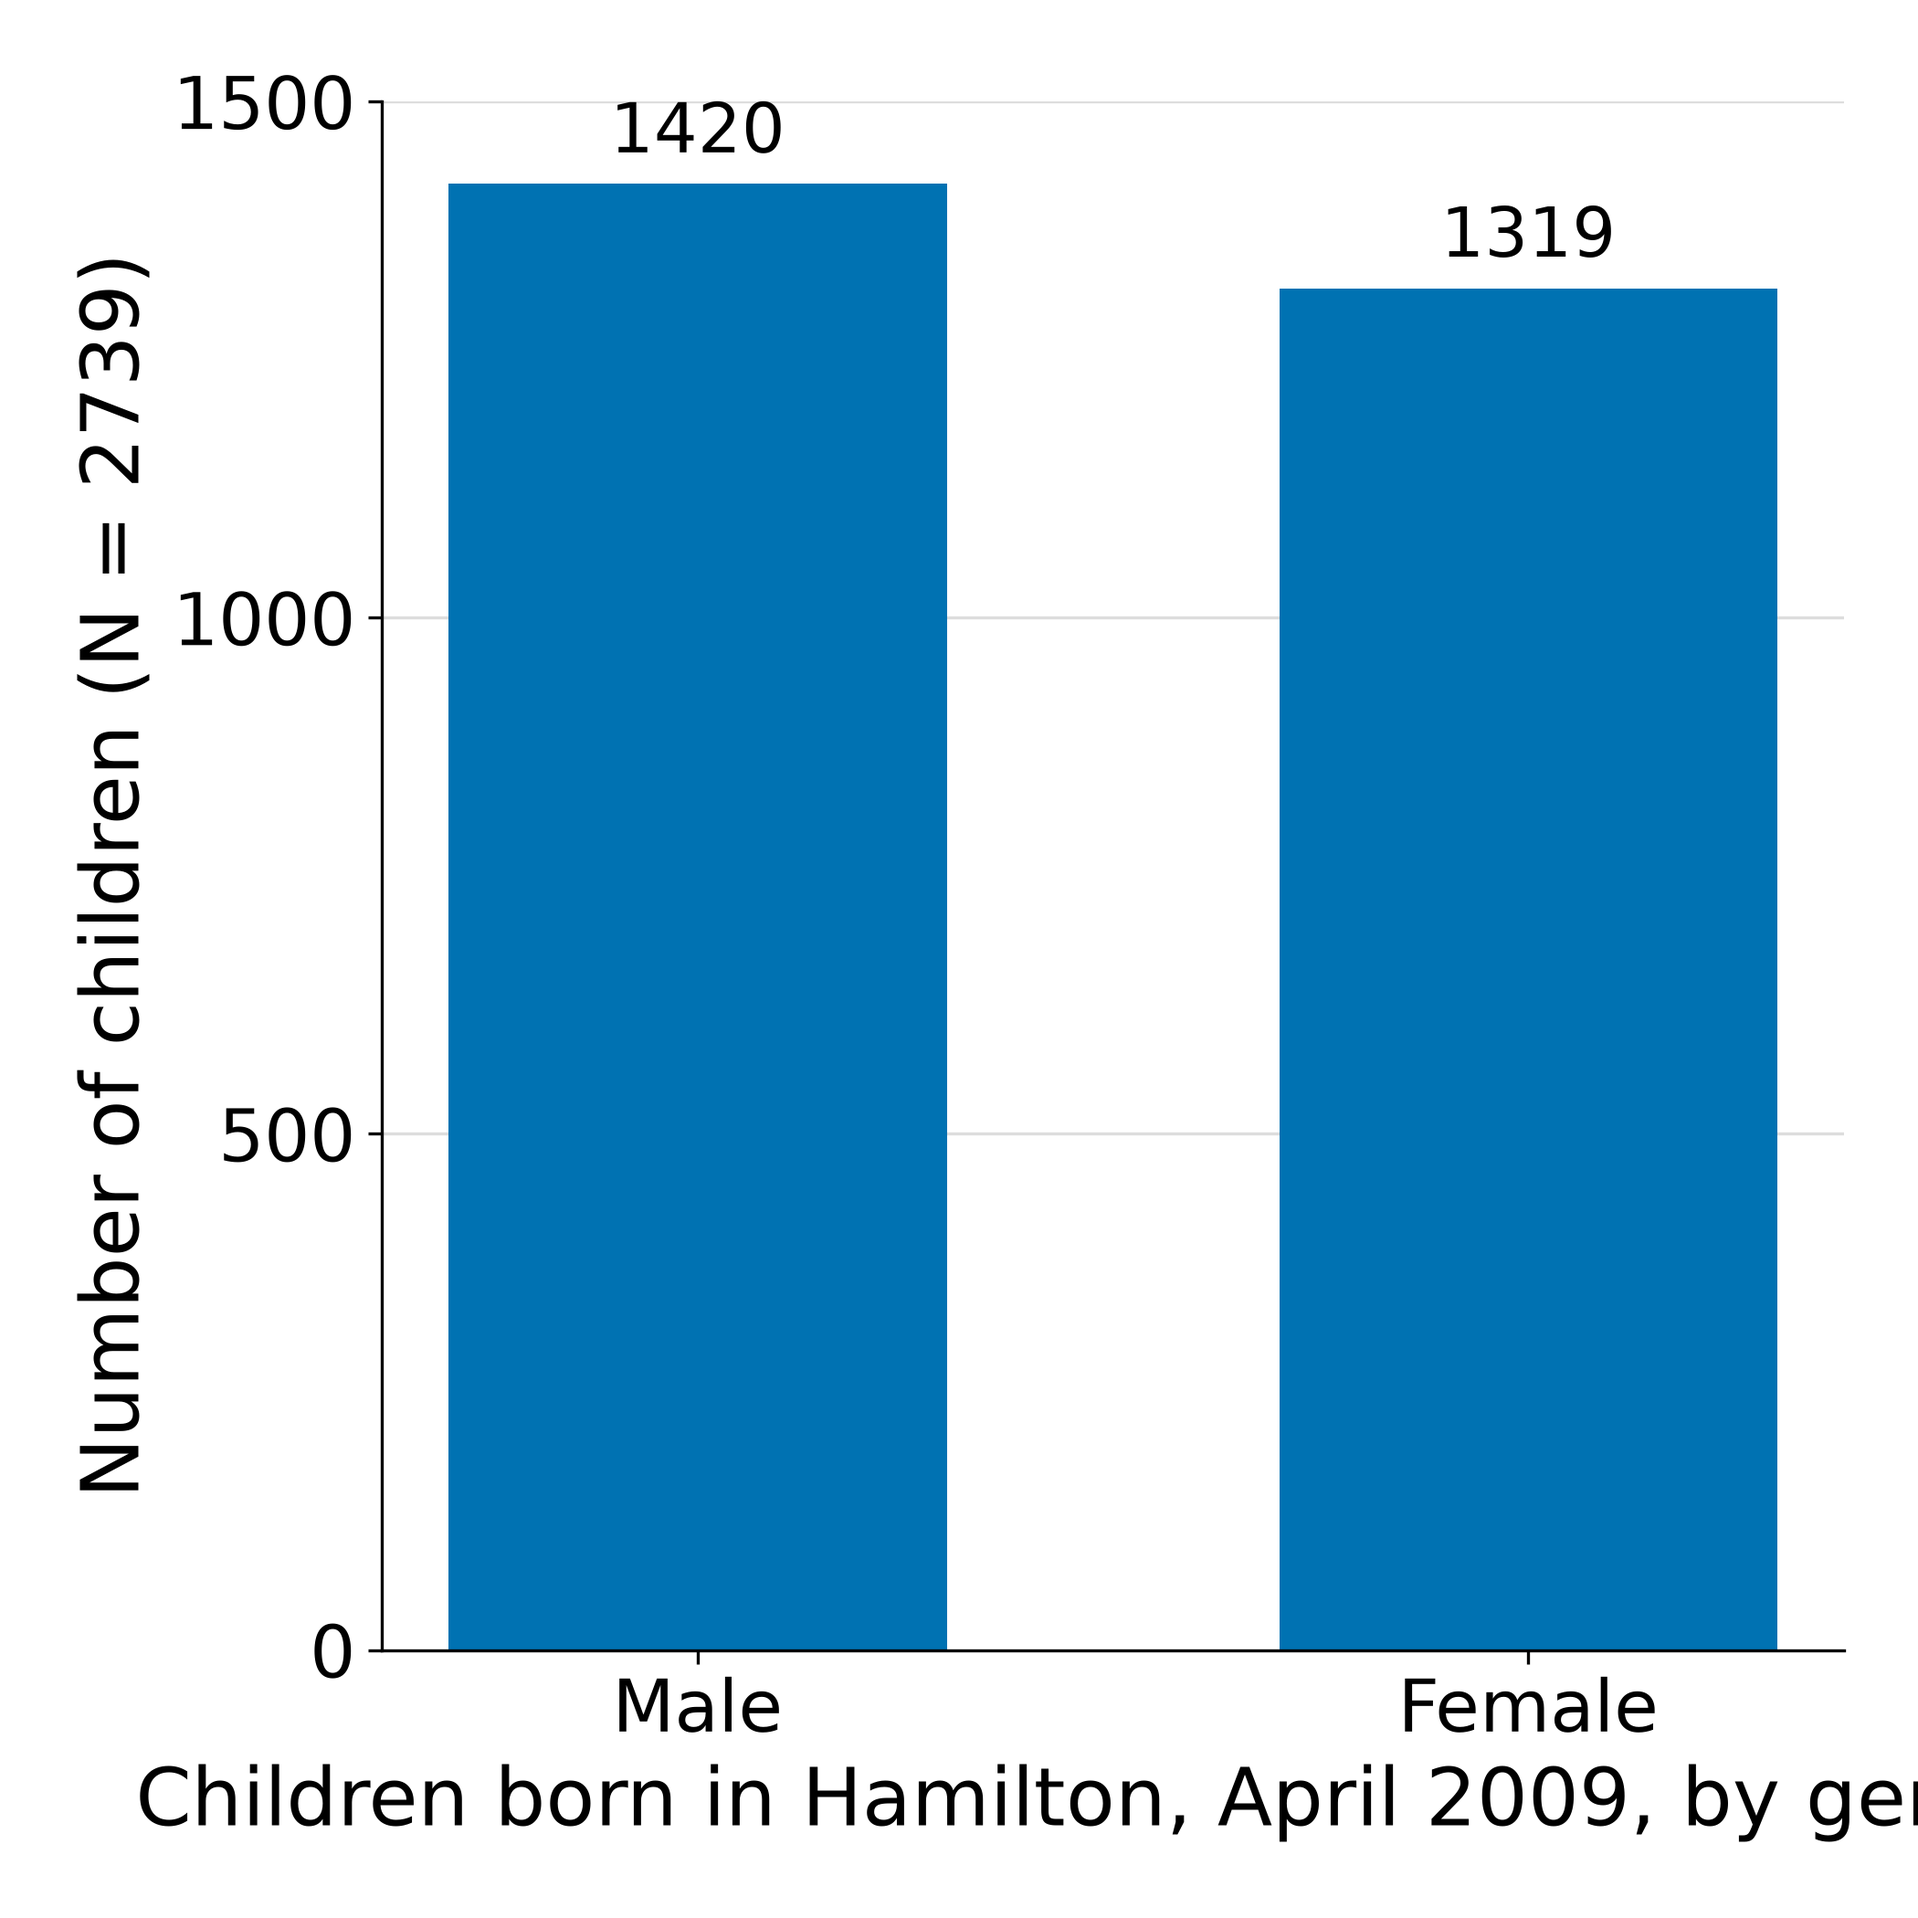
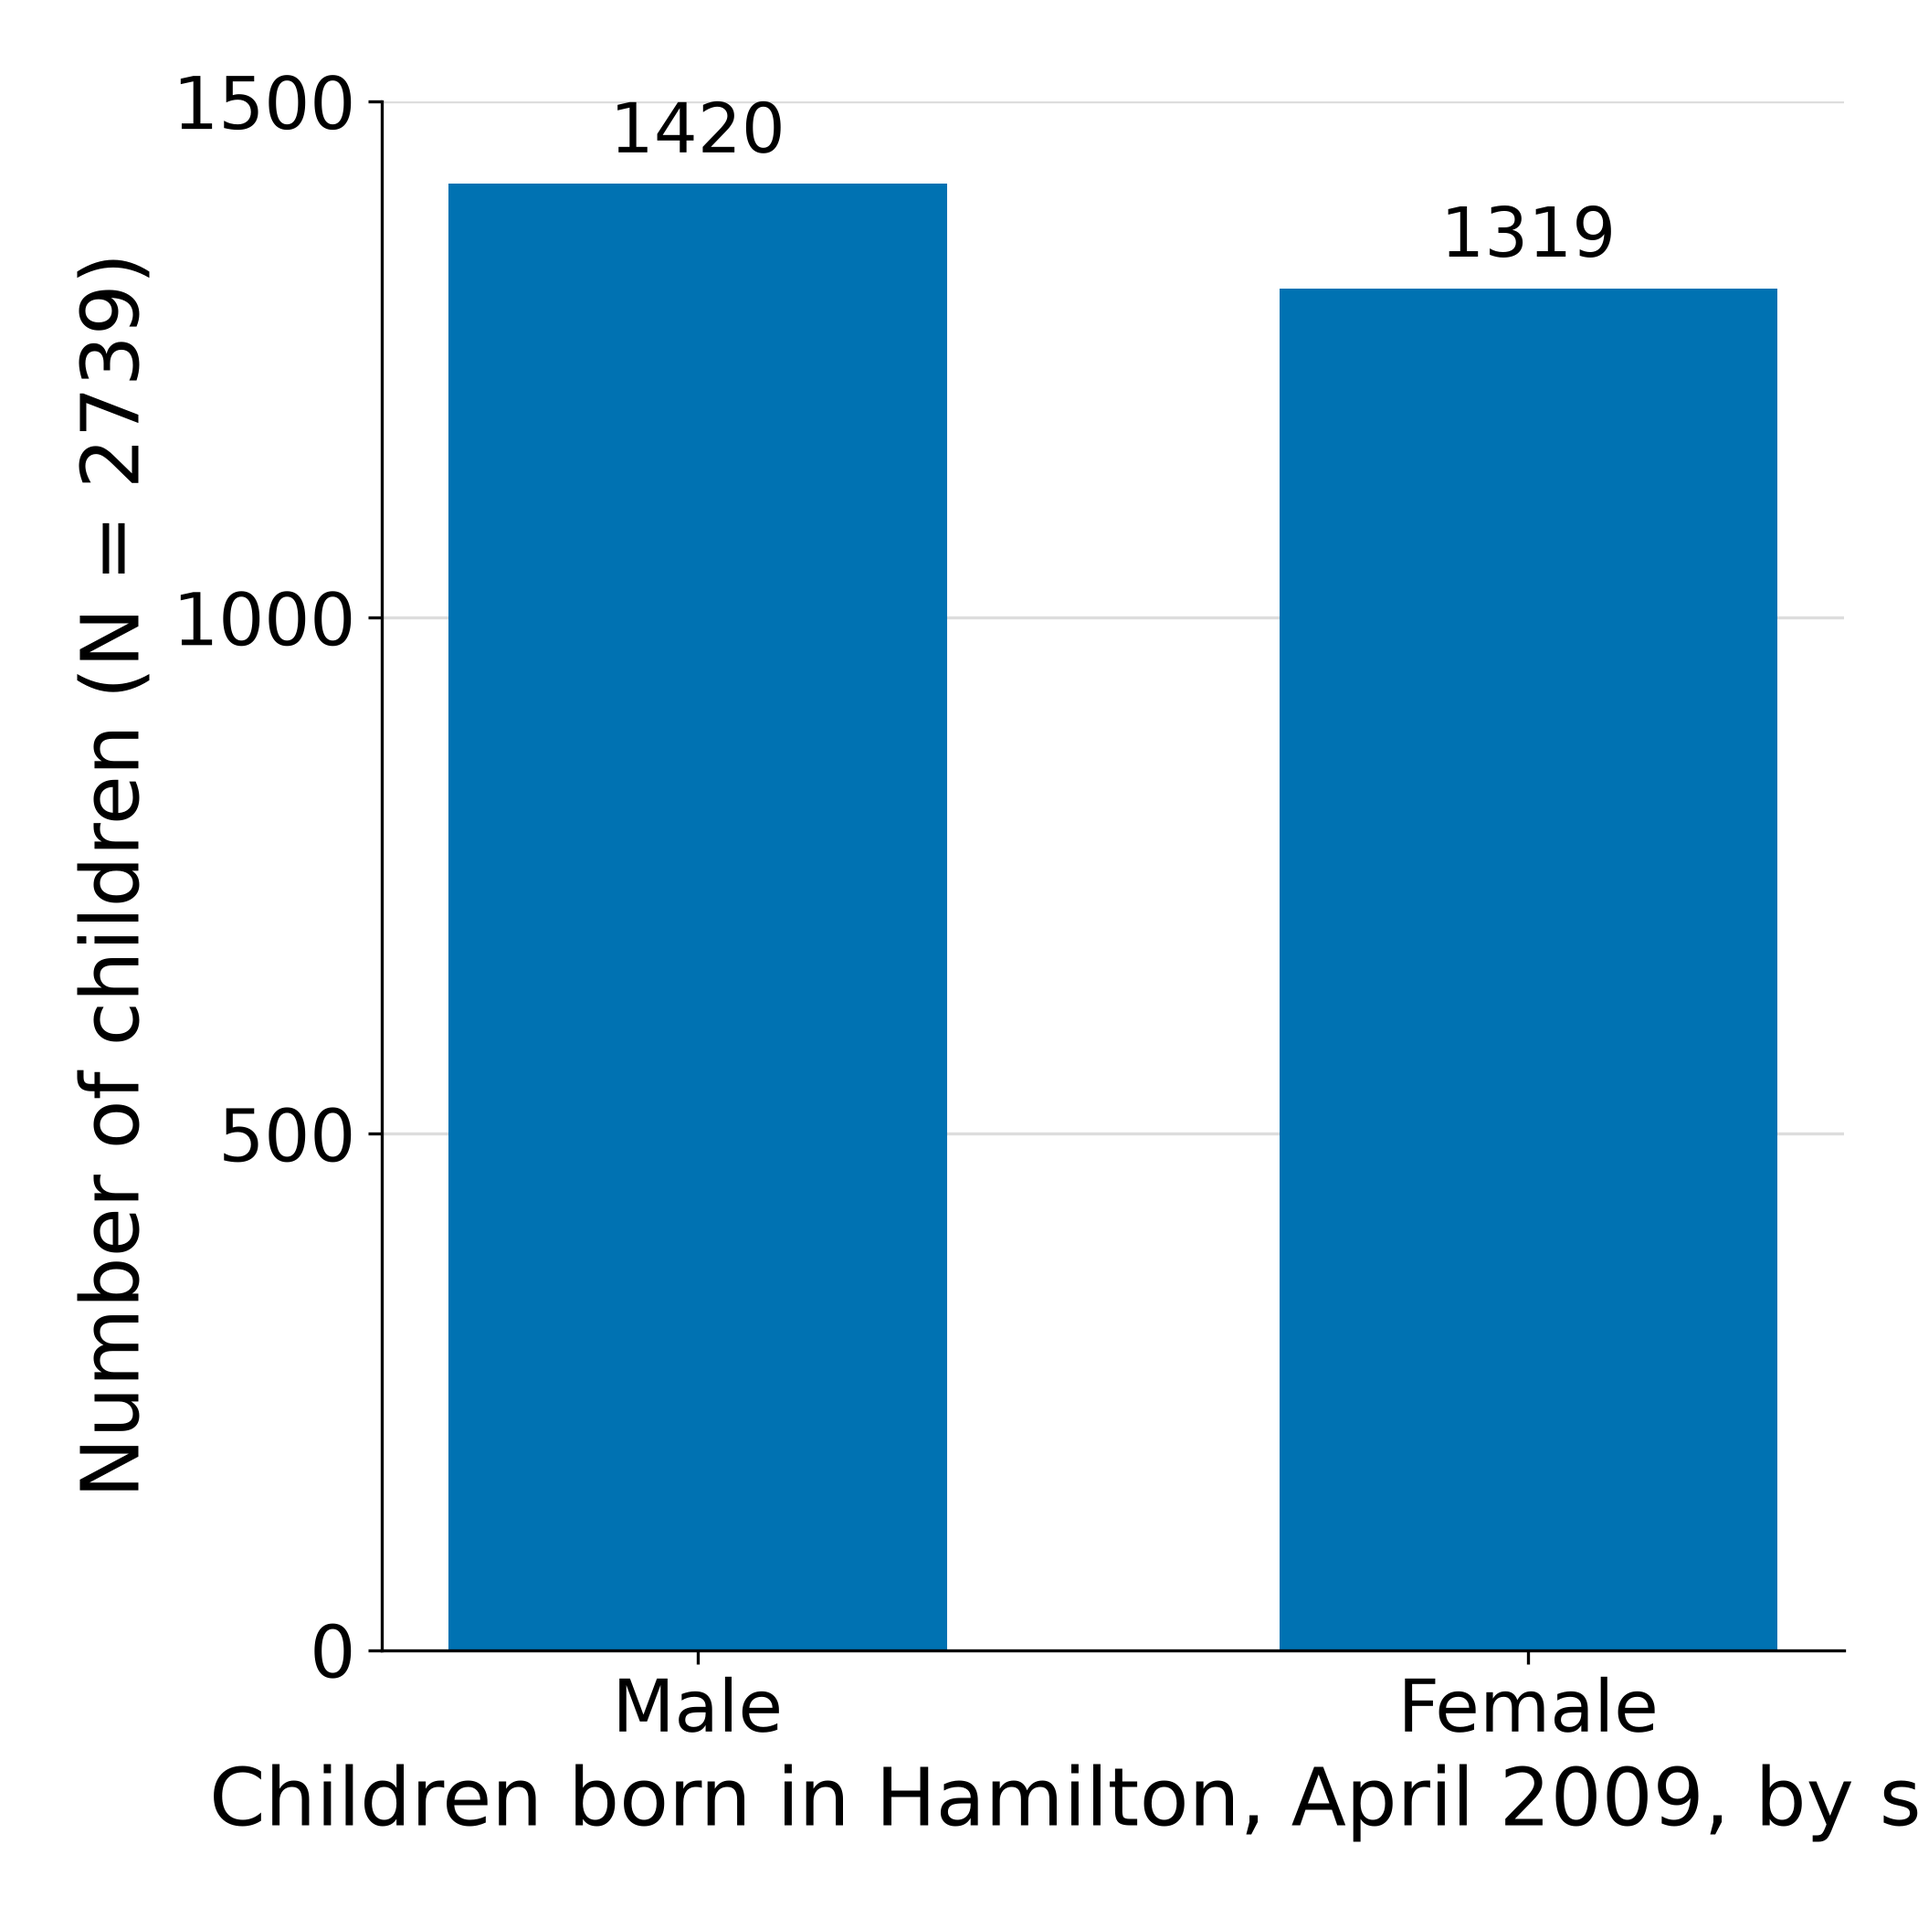
Show the four frequency-distribution cases the recipe works through
The 'steps to creating a frequency distribution' recipe walks through
four examples, A to D, each with a different resolution on the
measurement axis, and then showed the reader nothing: the source
carried a TODO in place of the plots. This adds the four-panel figure.

Also relabels the births figure from 'by gender' to 'by sex', matching
the sex-ratio-at-birth wording used later on the same page.

Changed region(s): [[0.0619, 0.8976, 1.0, 0.9595]]

diff --git a/univariate/histogram_chapter_figures.py b/univariate/histogram_chapter_figures.py
@@ -17,6 +17,11 @@ scripts (``histogram-children-by-gender.R``, ``histogram-package-mass.R``,
   (used in the binary-distribution section).
 - ``histogram-4-cuts.png``: counts of four roughly equally likely
   defect types (used in the uniform-distribution section).
+- ``frequency-distribution-four-cases.png``: the four worked examples
+  A, B, C and D from the "steps to creating a frequency distribution"
+  recipe, showing how the resolution chosen for the measurement axis
+  changes the plot: two categories, four ordered grades, integer
+  percentages, and 5 K bins of a continuous measurement.
 
 All random data are seeded so the committed images regenerate exactly.
 
@@ -24,7 +29,7 @@ Usage
 -----
     uv run --with numpy --with matplotlib python histogram_chapter_figures.py [output_dir]
 
-Writes the five PNGs into ``output_dir`` (default: this script's own
+Writes the six PNGs into ``output_dir`` (default: this script's own
 directory), refreshing the committed images in place.
 """
 
@@ -83,7 +88,7 @@ def children_by_gender(outdir: pathlib.Path) -> None:
     bars = ax.bar(list(counts), list(counts.values()), width=0.6, color=BLUE)
     ax.bar_label(bars, padding=4)
     ax.set_ylabel(f"Number of children (N = {sum(counts.values())})")
-    ax.set_xlabel("Children born in Hamilton, April 2009, by gender")
+    ax.set_xlabel("Children born in Hamilton, April 2009, by sex")
     ax.set_ylim(0, 1500)
     ax.set_yticks([0, 500, 1000, 1500])
     save(fig, outdir, "histogram-children-by-gender.png")
@@ -148,6 +153,61 @@ def histogram_4_cuts(outdir: pathlib.Path) -> None:
     save(fig, outdir, "histogram-4-cuts.png")
 
 
+def frequency_distribution_four_cases(outdir: pathlib.Path) -> None:
+    """The four worked examples in the frequency-distribution recipe.
+
+    Each panel uses a different resolution on the measurement axis,
+    which is the point the recipe makes: A is a yes/no code, B is a
+    four-level grade, C is quantized to whole percent, and D is a
+    continuous measurement collected into 5 K bins.
+    """
+    rng = np.random.default_rng(19)
+
+    fig, axes = plt.subplots(2, 2, figsize=(15, 12))
+    for ax in axes.flat:
+        ax.grid(axis="y", color=GRID, linewidth=0.8)
+
+    # A: acceptable or unacceptable metal appearance, coded 1 or 0.
+    appearance = rng.random(400) < 0.86
+    counts = [int((~appearance).sum()), int(appearance.sum())]
+    bars = axes[0, 0].bar(["Unacceptable (0)", "Acceptable (1)"], counts,
+                          width=0.55, color=BLUE)
+    axes[0, 0].bar_label(bars, padding=4)
+    axes[0, 0].set_title("A: metal appearance, yes or no")
+    axes[0, 0].set_xlabel("Appearance code")
+    axes[0, 0].set_ylabel(f"Number of pieces (N = {len(appearance)})")
+    axes[0, 0].set_ylim(0, 420)
+
+    # B: number of defects on a metal sheet, graded 1 to 4.
+    grade = rng.choice([1, 2, 3, 4], size=400, p=[0.46, 0.30, 0.17, 0.07])
+    counts = np.bincount(grade, minlength=5)[1:]
+    bars = axes[0, 1].bar(["1\nnone", "2\nlow", "3\nmedium", "4\nhigh"], counts,
+                          width=0.55, color=BLUE)
+    axes[0, 1].bar_label(bars, padding=4)
+    axes[0, 1].set_title("B: defects on a metal sheet, four grades")
+    axes[0, 1].set_xlabel("Defect grade")
+    axes[0, 1].set_ylabel(f"Number of sheets (N = {len(grade)})")
+    axes[0, 1].set_ylim(0, 220)
+
+    # C: batch yield, reported to the nearest whole percent.
+    yields = np.round(rng.normal(loc=80, scale=4.5, size=300)).astype(int)
+    edges = np.arange(yields.min() - 0.5, yields.max() + 1.5, 1.0)
+    axes[1, 0].hist(yields, bins=edges, color=BLUE, edgecolor="white")
+    axes[1, 0].set_title("C: batch yield, rounded to 1%")
+    axes[1, 0].set_xlabel("Yield [%]")
+    axes[1, 0].set_ylabel(f"Number of batches (N = {len(yields)})")
+
+    # D: ambient temperature, measured to 0.05 K but binned every 5 K.
+    temperature = rng.normal(loc=284, scale=9, size=365)
+    edges = np.arange(255, 316, 5)
+    axes[1, 1].hist(temperature, bins=edges, color=BLUE, edgecolor="white")
+    axes[1, 1].set_title("D: daily temperature, binned every 5 K")
+    axes[1, 1].set_xlabel("Ambient temperature [K]")
+    axes[1, 1].set_ylabel(f"Number of days (N = {len(temperature)})")
+
+    save(fig, outdir, "frequency-distribution-four-cases.png")
+
+
 if __name__ == "__main__":
     outdir = pathlib.Path(sys.argv[1]) if len(sys.argv) > 1 else pathlib.Path(__file__).parent
     children_by_gender(outdir)
@@ -155,3 +215,4 @@ if __name__ == "__main__":
     frequency_histogram(outdir)
     histogram_70_30(outdir)
     histogram_4_cuts(outdir)
+    frequency_distribution_four_cases(outdir)
